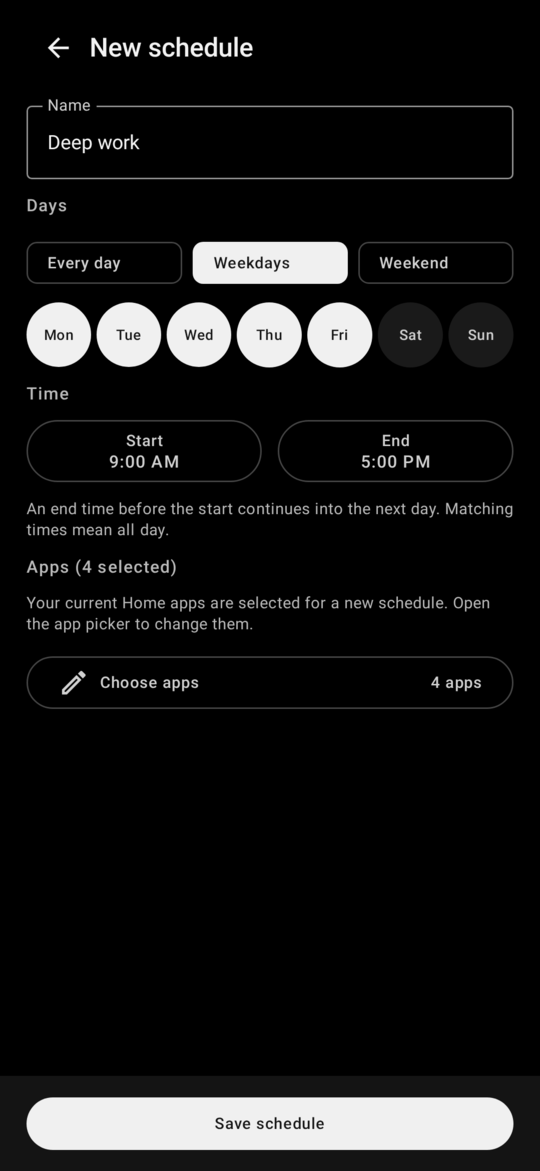
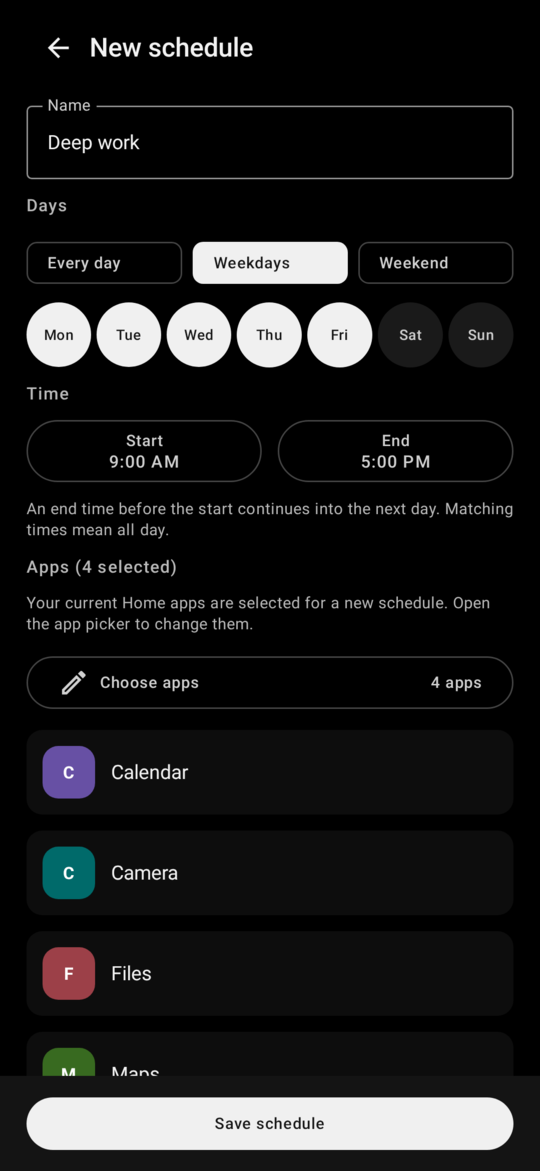
feat: show selected apps in schedule editor

diff --git a/app/src/androidTest/java/com/tomasrepcik/voidlauncher/ui/ScheduleScreenRobotTest.kt b/app/src/androidTest/java/com/tomasrepcik/voidlauncher/ui/ScheduleScreenRobotTest.kt
@@ -7,6 +7,7 @@ import androidx.compose.ui.test.onAllNodesWithText
 import androidx.compose.ui.test.onNodeWithTag
 import androidx.compose.ui.test.onNodeWithText
 import androidx.compose.ui.test.performClick
+import androidx.compose.ui.test.performScrollTo
 import com.tomasrepcik.voidlauncher.data.model.AppKey
 import com.tomasrepcik.voidlauncher.data.model.InstalledApp
 import com.tomasrepcik.voidlauncher.domain.schedule.AppSchedule
@@ -78,15 +79,16 @@ class ScheduleScreenRobotTest {
     }
 
     @Test
-    fun newEditorFitsDaysAndOpensAppsOnASeparateScreen() {
+    fun editorShowsSelectedAppsAndOpensPickerOnASeparateScreen() {
         val mail = app("Mail")
+        val calendar = app("Calendar")
         var receivedIntent: ScheduleEditorIntent? = null
         composeRule.setContent {
             VoidLauncherTheme {
                 ScheduleEditorScreen(
                     state = ScheduleEditorUiState(
-                        selectedAppKeys = setOf(mail.key),
-                        installedApps = listOf(mail),
+                        selectedAppKeys = setOf(mail.key, calendar.key),
+                        installedApps = listOf(mail, calendar),
                         isLoading = false,
                     ),
                     onBack = {},
@@ -99,17 +101,16 @@ class ScheduleScreenRobotTest {
         DayOfWeek.entries.forEach { day ->
             composeRule.onNodeWithTag("schedule_day_${day.name}").assertIsDisplayed()
         }
-        assertEquals(
-            0,
-            composeRule.onAllNodesWithText("Use this schedule").fetchSemanticsNodes().size,
-        )
-        assertEquals(
-            0,
-            composeRule.onAllNodesWithTag("schedule_app_search").fetchSemanticsNodes().size,
-        )
-        composeRule.onNodeWithTag("schedule_choose_apps_button").assertIsDisplayed()
+        val enabledControls = composeRule.onAllNodesWithText("Use this schedule")
+        assertEquals(0, enabledControls.fetchSemanticsNodes().size)
+        val appSearchFields = composeRule.onAllNodesWithTag("schedule_app_search")
+        assertEquals(0, appSearchFields.fetchSemanticsNodes().size)
+        listOf(mail, calendar).forEach { app ->
+            val tag = "schedule_selected_app_${app.key.packageName}_${app.key.activityName}"
+            composeRule.onNodeWithTag(tag).performScrollTo().assertIsDisplayed()
+        }
         composeRule.onNodeWithTag("schedule_save_button").assertIsDisplayed()
-        composeRule.onNodeWithTag("schedule_choose_apps_button").performClick()
+        composeRule.onNodeWithTag("schedule_choose_apps_button").performScrollTo().performClick()
         assertEquals(ScheduleEditorIntent.OpenAppPicker, receivedIntent)
 
         composeRule.onNodeWithTag("schedule_preset_Every day").performClick()
@@ -124,8 +125,8 @@ class ScheduleScreenRobotTest {
             VoidLauncherTheme {
                 ScheduleEditorScreen(
                     state = ScheduleEditorUiState(
-                        selectedAppKeys = setOf(mail.key),
-                        installedApps = listOf(mail),
+                        selectedAppKeys = setOf(mail.key, calendar.key),
+                        installedApps = listOf(mail, calendar),
                         isAppPickerOpen = true,
                         isLoading = false,
                     ),

diff --git a/app/src/main/java/com/tomasrepcik/voidlauncher/ui/schedule/ScheduleScreens.kt b/app/src/main/java/com/tomasrepcik/voidlauncher/ui/schedule/ScheduleScreens.kt
@@ -224,6 +224,34 @@ fun ScheduleEditorScreen(
                 Text(stringResource(R.string.schedule_app_count, state.selectedAppKeys.size))
             }
         }
+        items(
+            items = state.installedApps.filter { app -> app.key in state.selectedAppKeys },
+            key = { app -> "selected:${app.key.packageName}:${app.key.activityName}" },
+        ) { app ->
+            ElevatedCard(
+                modifier = Modifier.testTag(
+                    "schedule_selected_app_${app.key.packageName}_${app.key.activityName}"
+                ),
+            ) {
+                Row(
+                    modifier = Modifier
+                        .fillMaxWidth()
+                        .padding(12.dp),
+                    verticalAlignment = Alignment.CenterVertically,
+                    horizontalArrangement = Arrangement.spacedBy(12.dp),
+                ) {
+                    AppIcon(
+                        app = app,
+                        modifier = Modifier.size(40.dp),
+                    )
+                    Text(
+                        text = app.label,
+                        style = MaterialTheme.typography.bodyLarge,
+                        modifier = Modifier.weight(1f),
+                    )
+                }
+            }
+        }
     }
 }
 
